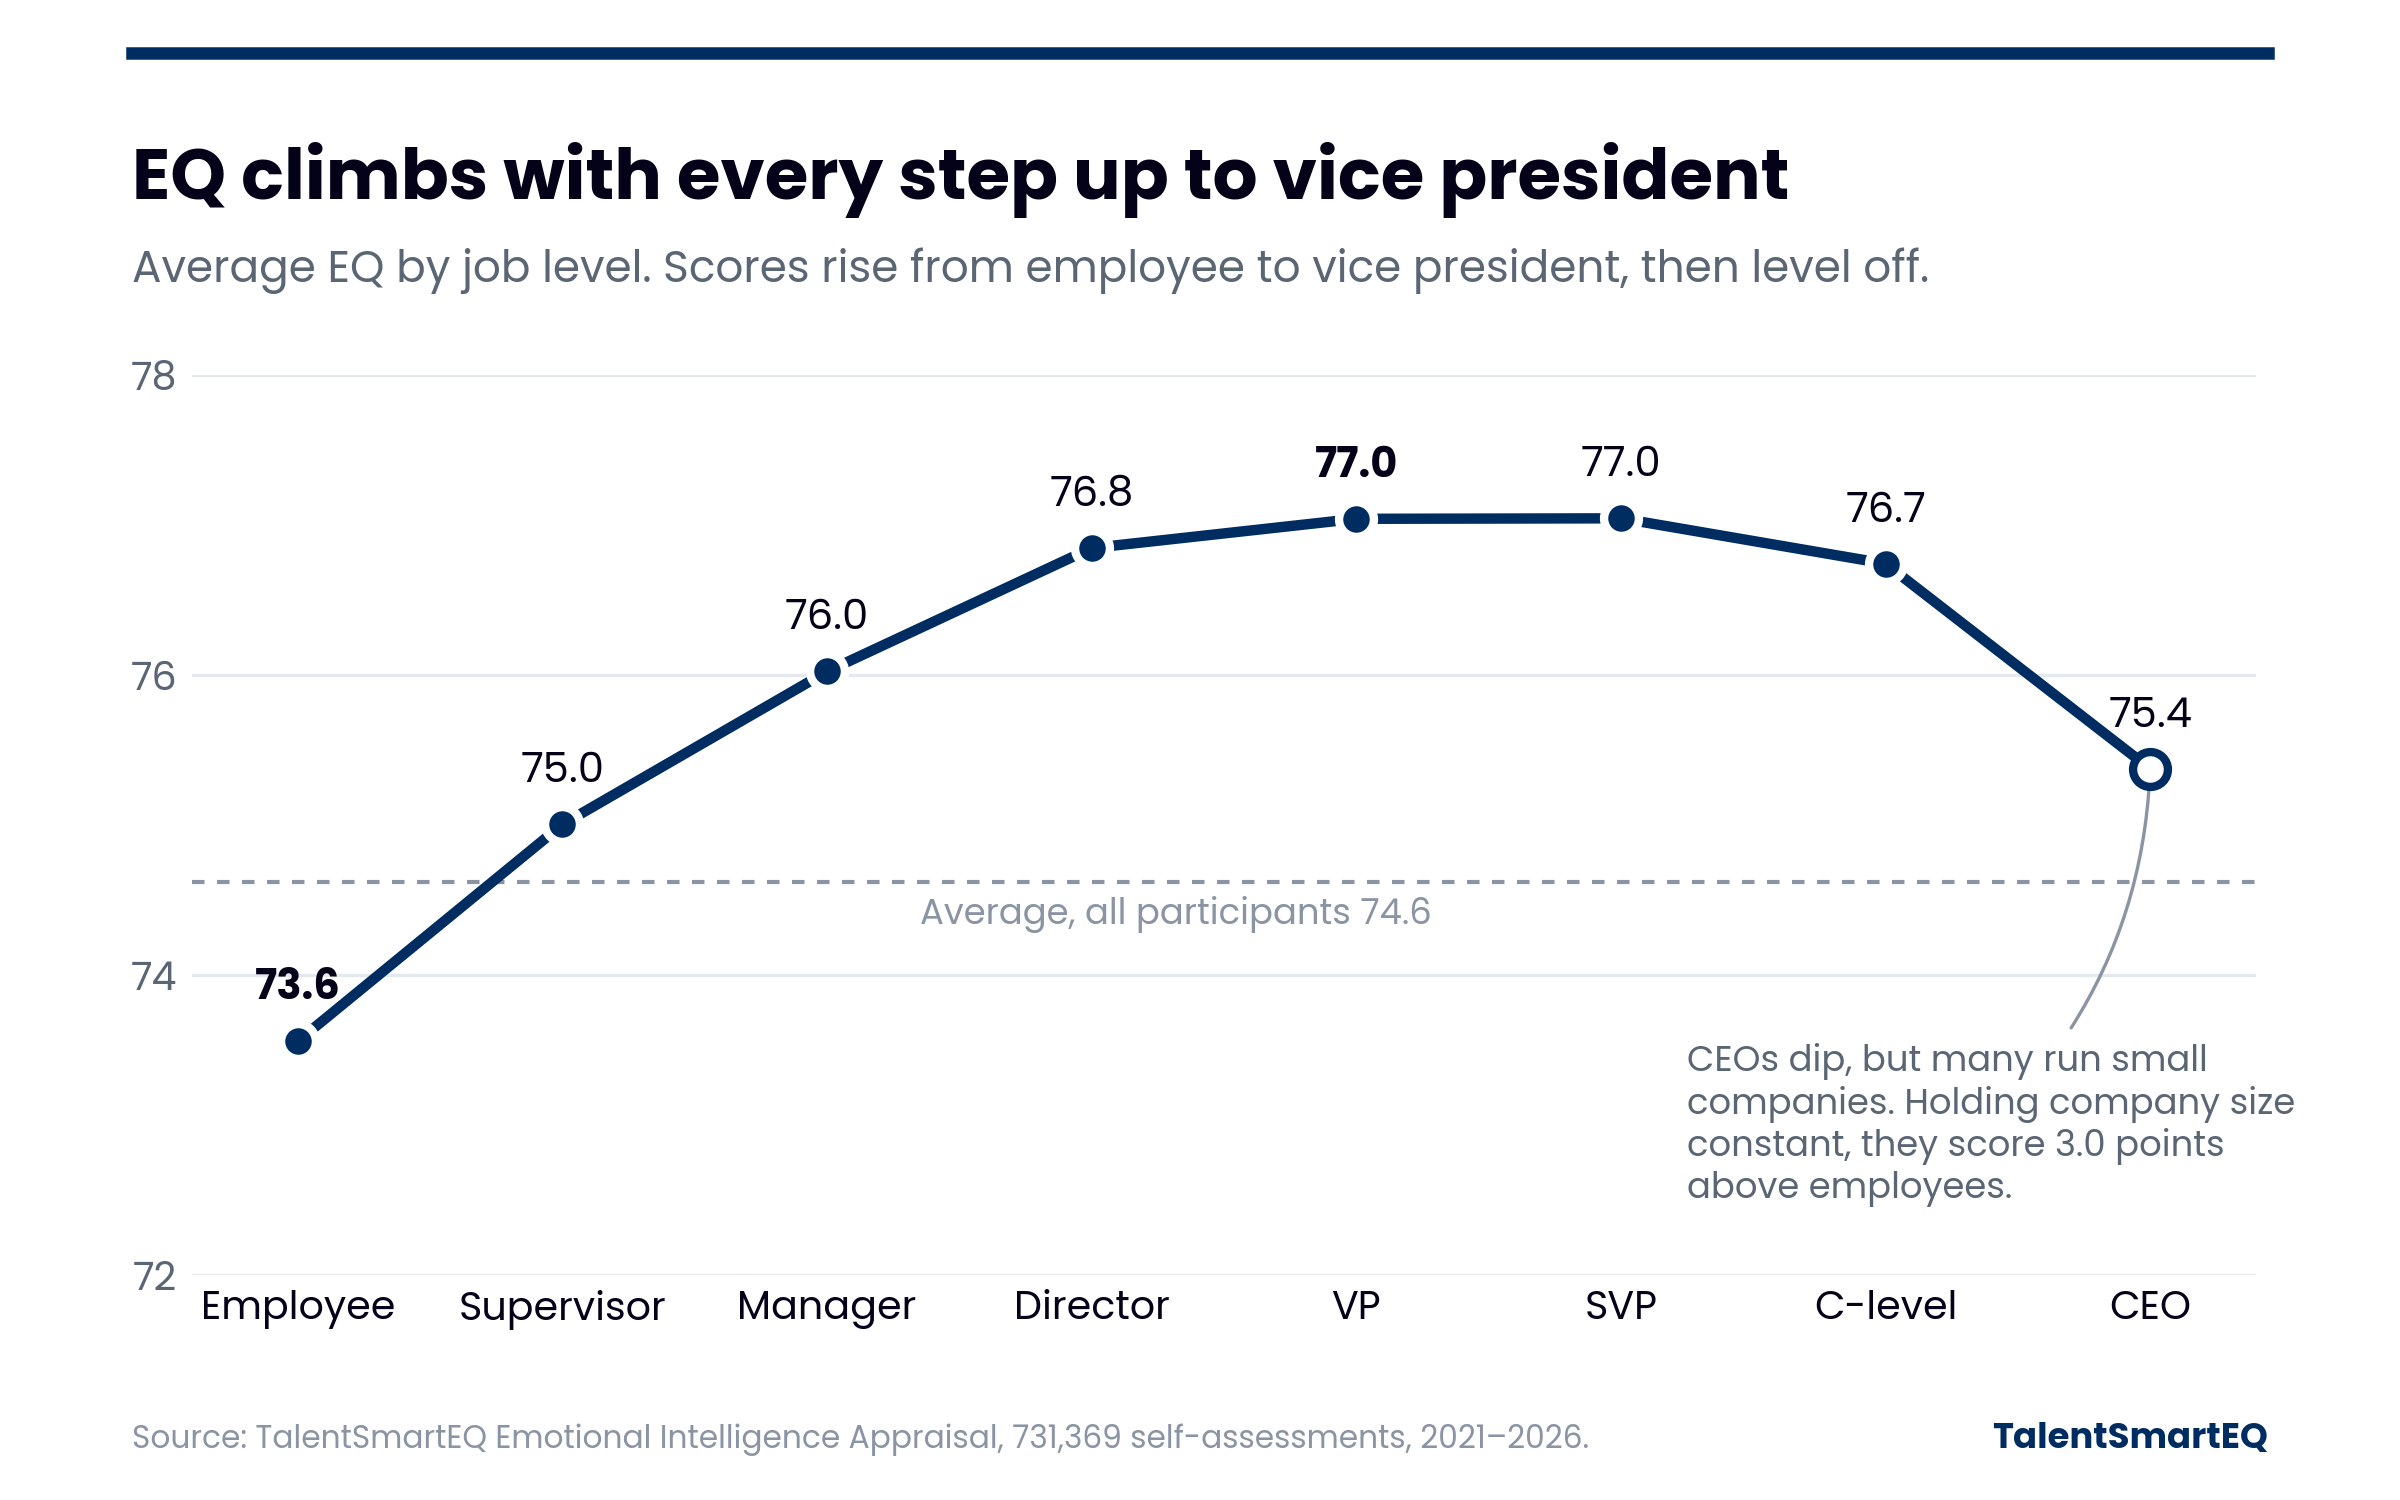
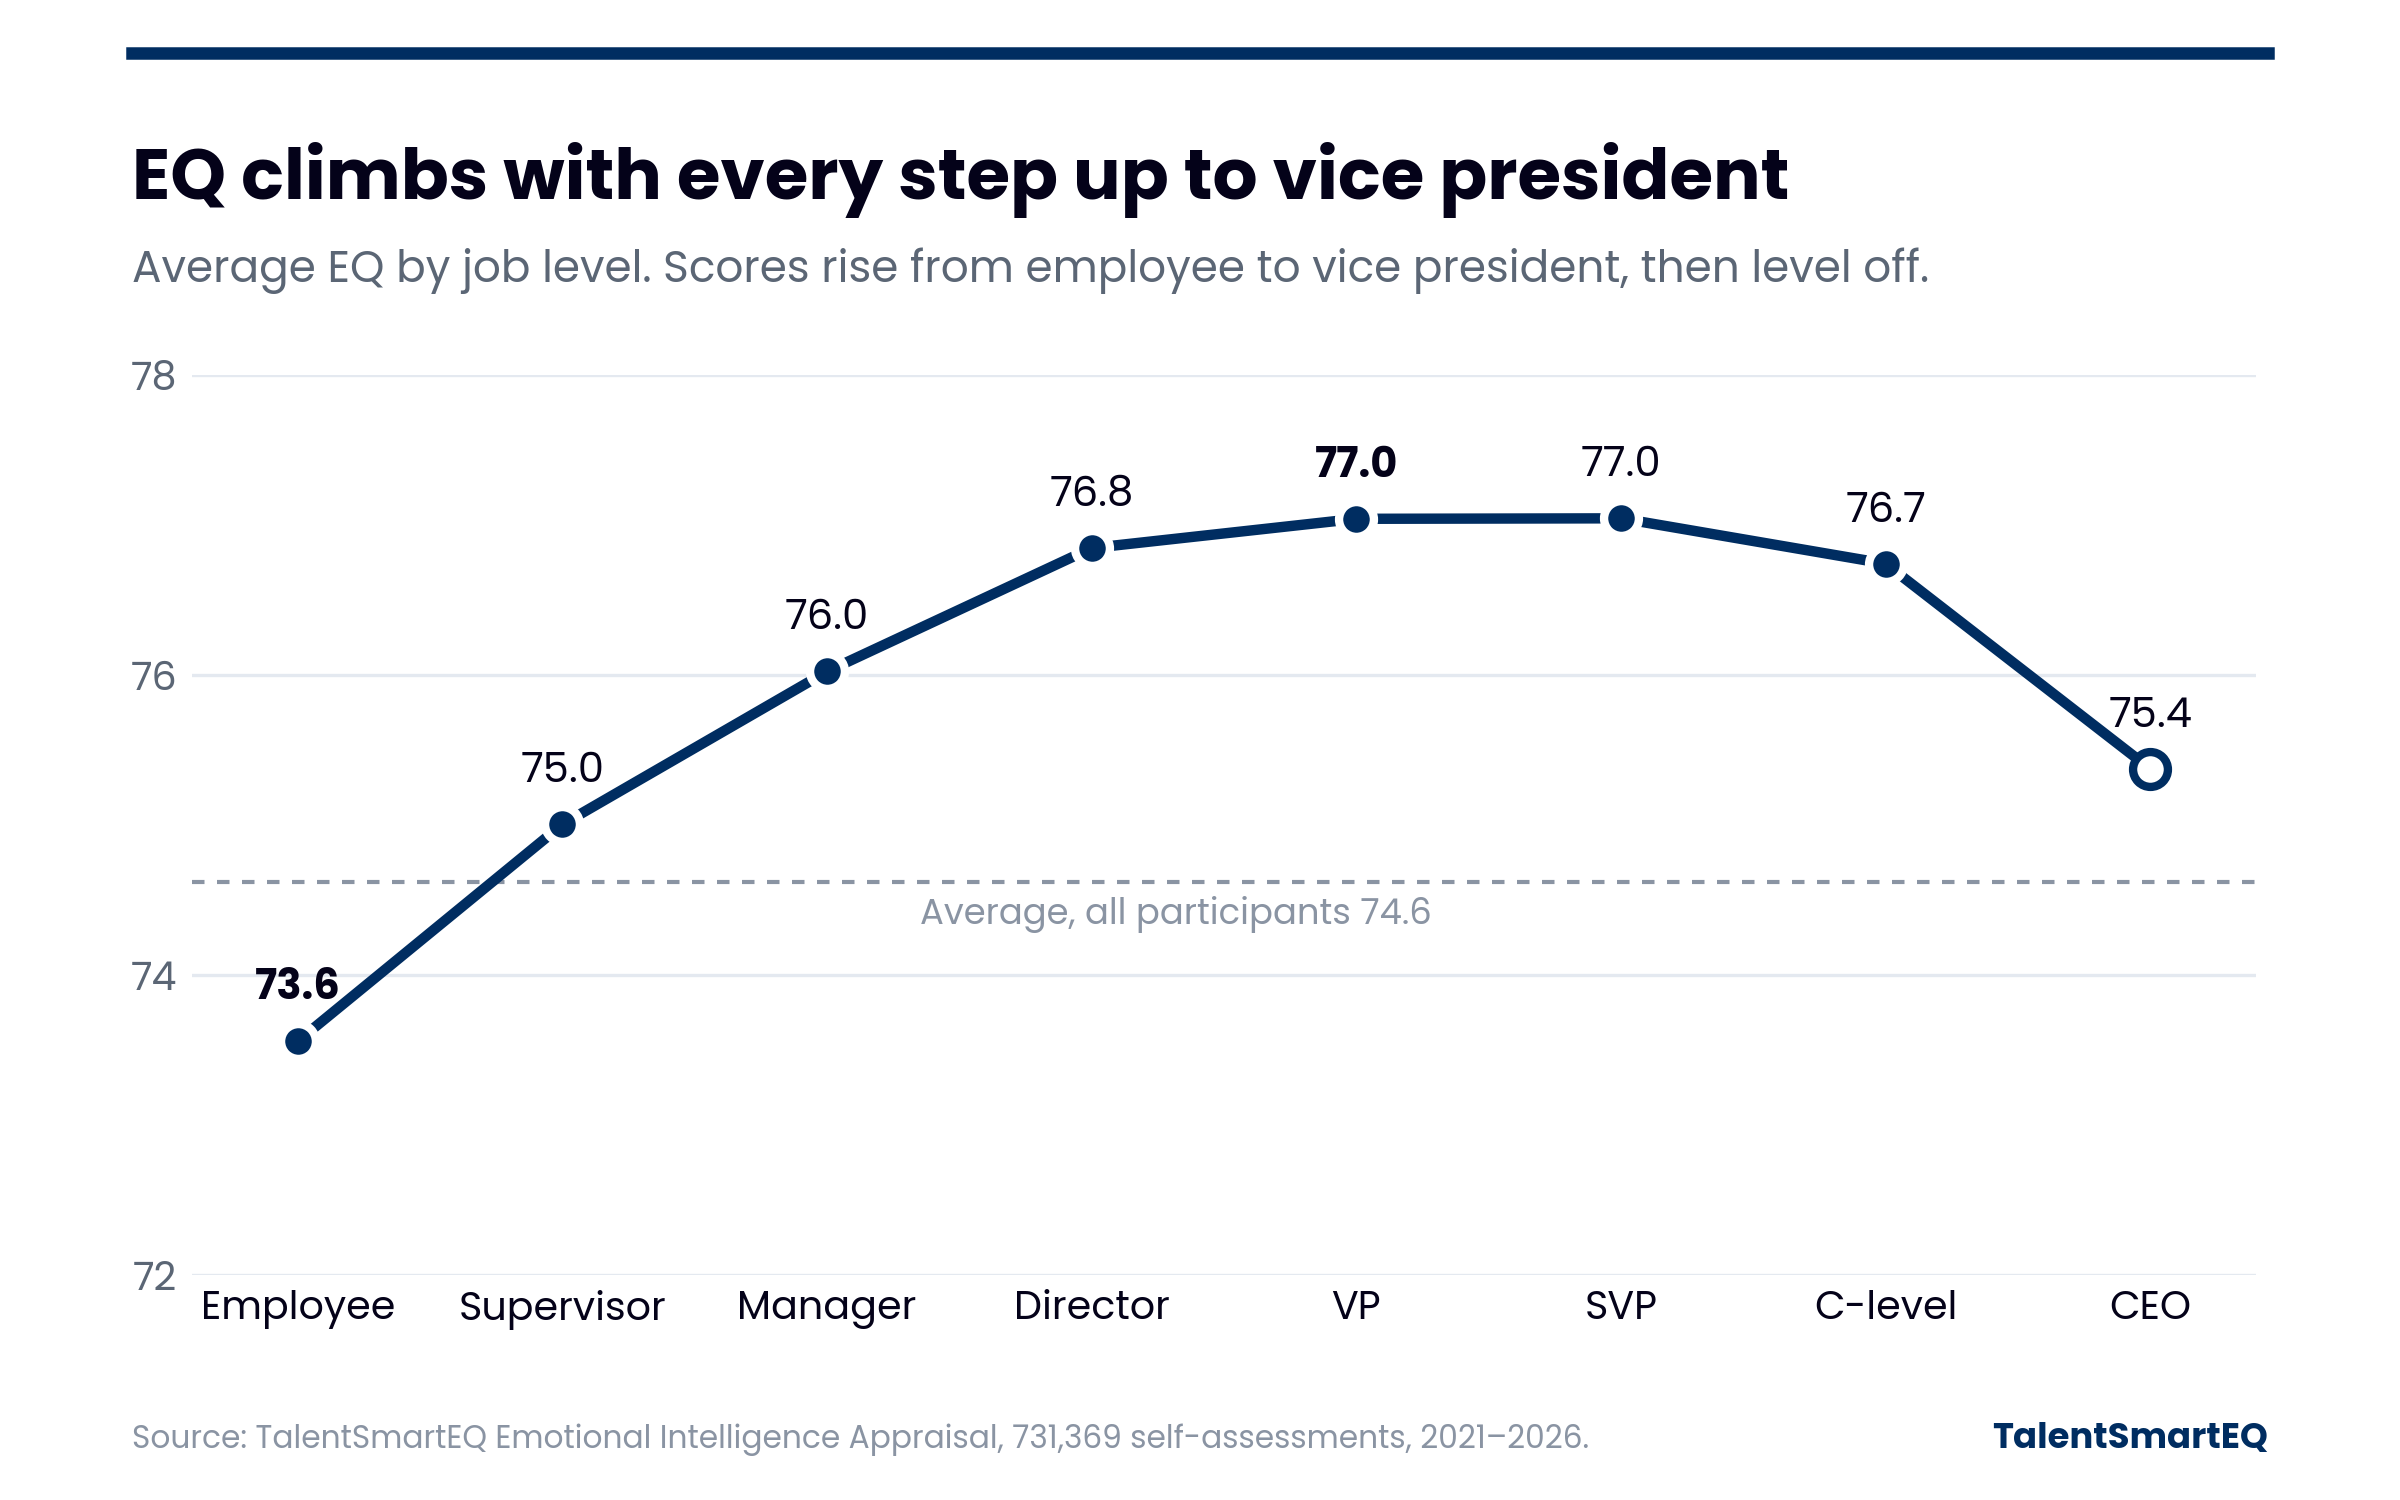
Leader level page: retitle, clickable CEO point with company-size fact, chart note removed

Changed region(s): [[0.6875, 0.7053, 0.9375, 0.7973]]

diff --git a/research/leader-level.html b/research/leader-level.html
@@ -3,7 +3,7 @@
 <head>
 <meta charset="utf-8">
 <meta name="viewport" content="width=device-width, initial-scale=1">
-<title>EQ climbs with every step up to vice president | EQ Research &amp; Insights</title>
+<title>EQ &amp; Leader Level | EQ Research &amp; Insights</title>
 <link rel="stylesheet" href="https://fonts.googleapis.com/css2?family=Archivo:wght@500;600;700;800&family=IBM+Plex+Mono:wght@400;500;600&family=IBM+Plex+Sans:wght@400;500;600&display=swap">
 <style>
 :root{
@@ -74,6 +74,20 @@ ul{padding-left:1.2rem;margin:0} li{margin:.4rem 0}
 p{margin:0}
 .foot{margin-top:2.4rem;padding-top:1rem;border-top:1px solid var(--hair);font-size:.78rem;color:var(--ink-3)}
 .foot p{margin:.3rem 0}
+/* hidden fact on the CEO point: grows on hover, click slides a box out to the right */
+.figwrap{position:relative;margin:0 0 2rem}
+.figwrap figure{margin:0}
+.hot{position:absolute;width:34px;height:34px;margin:-17px 0 0 -17px;border-radius:50%;border:2px solid transparent;background:transparent;cursor:pointer;z-index:2;transition:transform .2s ease,border-color .2s ease,background .2s ease}
+.hot:hover,.hot:focus-visible,.hot[aria-expanded="true"]{transform:scale(1.35);border-color:#00A878;background:rgba(0,168,120,.12)}
+.pop{position:absolute;z-index:1;width:300px;background:var(--aside);border:1px solid var(--hair);border-radius:14px;padding:1rem 2rem 1rem 1.1rem;box-shadow:0 10px 28px rgba(0,28,62,.12);animation:popR .3s ease}
+.pop[hidden]{display:none}
+.pop p{font-size:.88rem;line-height:1.5;color:var(--ink-2);margin:0}
+.pop .pop-h{font-family:var(--font-display);font-weight:700;font-size:1rem;color:var(--navy);margin:0 0 .3rem}
+.pop-x{position:absolute;top:.4rem;right:.5rem;border:0;background:none;font-size:1.4rem;line-height:1;color:var(--ink-3);cursor:pointer;padding:.2rem .4rem}
+.pop-x:hover{color:var(--ink)}
+@keyframes popR{from{opacity:0;transform:translateX(-16px)}to{opacity:1;transform:none}}
+@media (prefers-reduced-motion:reduce){.hot,.pop{transition:none;animation:none}}
+@media (max-width:640px){.pop{position:static;width:auto;margin-top:.6rem;box-shadow:none}}
 </style>
 </head>
 <body>
@@ -82,8 +96,16 @@ p{margin:0}
   <a href="../index.html">&larr; EQ Research &amp; Insights</a>
 </div></header>
 <main>
-  <h1>EQ climbs with every step up to vice president</h1>
-  <figure><img src="../images/research/2-leader-level-eq-climbs.png" alt="Line chart of average EQ by job level, rising from employee to vice president and dipping for CEOs"></figure>
+  <h1>EQ &amp; Leader Level</h1>
+  <div class="figwrap">
+    <figure><img src="../images/research/2-leader-level-eq-climbs.png" alt="Line chart of average EQ by job level, rising from employee to vice president and dipping for CEOs"></figure>
+    <button class="hot" type="button" style="left:89.6%;top:51.3%" aria-expanded="false" aria-controls="ceo-size" aria-label="Does company size matter? More about the CEO dip"></button>
+    <div class="pop" id="ceo-size" hidden>
+      <button class="pop-x" type="button" aria-label="Close">&times;</button>
+      <p class="pop-h">Does company size matter?</p>
+      <p>Yes. Most CEOs in our data (69%) run companies of 100 people or fewer, and they average 75. CEOs of larger companies average 77, right in line with vice presidents. The CEO dip is mostly about company size, not the role.</p>
+    </div>
+  </div>
   <h2>What the data shows</h2>
   <ul>
     <li>Average EQ rises at every step of the management ladder: employees 73.6, supervisors 75.0, managers 76.0, directors 76.8 and vice presidents 77.0.</li>
@@ -97,5 +119,24 @@ p{margin:0}
     <p>Copyright 2026 &copy; TalentSmart Inc. All rights reserved.</p>
   </div>
 </main>
+<script>
+(function () {
+  var wrap = document.querySelector('.figwrap'), hot = wrap.querySelector('.hot'), box = document.getElementById('ceo-size');
+  function place() {
+    // to the right of the CEO point when there is room, otherwise just below it
+    box.style.left = box.style.top = box.style.right = '';
+    if (window.innerWidth <= 640) return;
+    var x = hot.offsetLeft, y = hot.offsetTop, room = window.innerWidth - hot.getBoundingClientRect().left - 40;
+    if (room >= 312) { box.style.left = (x + 26) + 'px'; box.style.top = Math.max(0, y - box.offsetHeight / 2) + 'px'; }
+    else { box.style.right = '0px'; box.style.top = (y + 26) + 'px'; }
+  }
+  function toggle(open) { box.hidden = !open; hot.setAttribute('aria-expanded', open); if (open) place(); }
+  hot.addEventListener('click', function () { toggle(box.hidden); });
+  box.querySelector('.pop-x').addEventListener('click', function () { toggle(false); hot.focus(); });
+  document.addEventListener('keydown', function (e) { if (e.key === 'Escape' && !box.hidden) toggle(false); });
+  document.addEventListener('click', function (e) { if (!box.hidden && !box.contains(e.target) && e.target !== hot) toggle(false); });
+  window.addEventListener('resize', function () { if (!box.hidden) place(); });
+})();
+</script>
 </body>
 </html>
